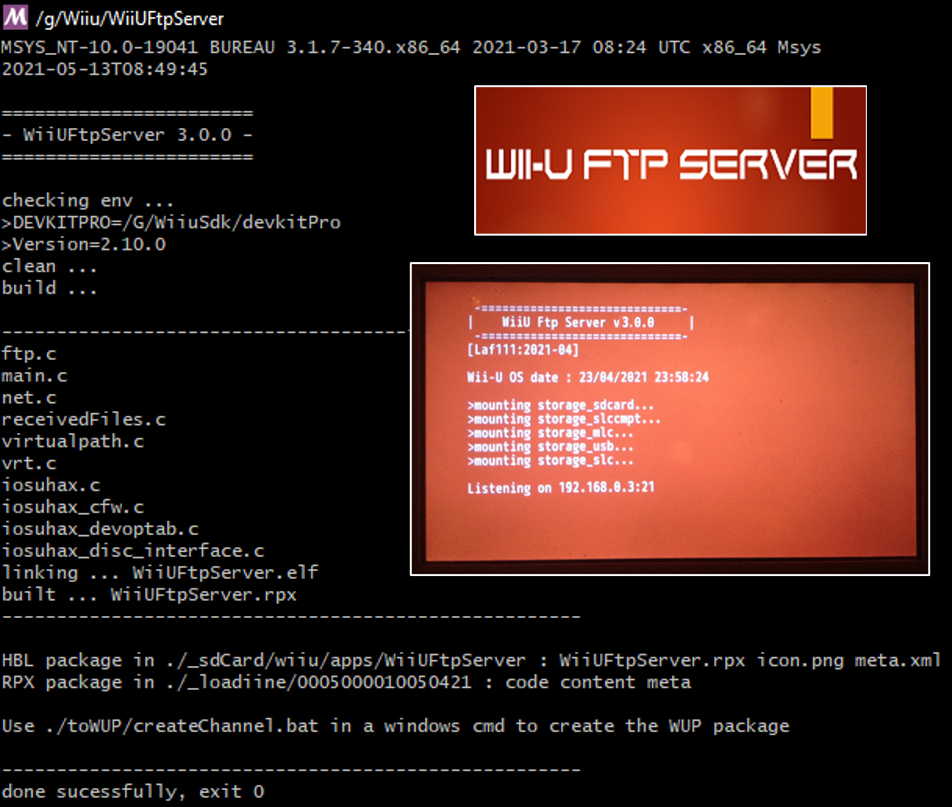
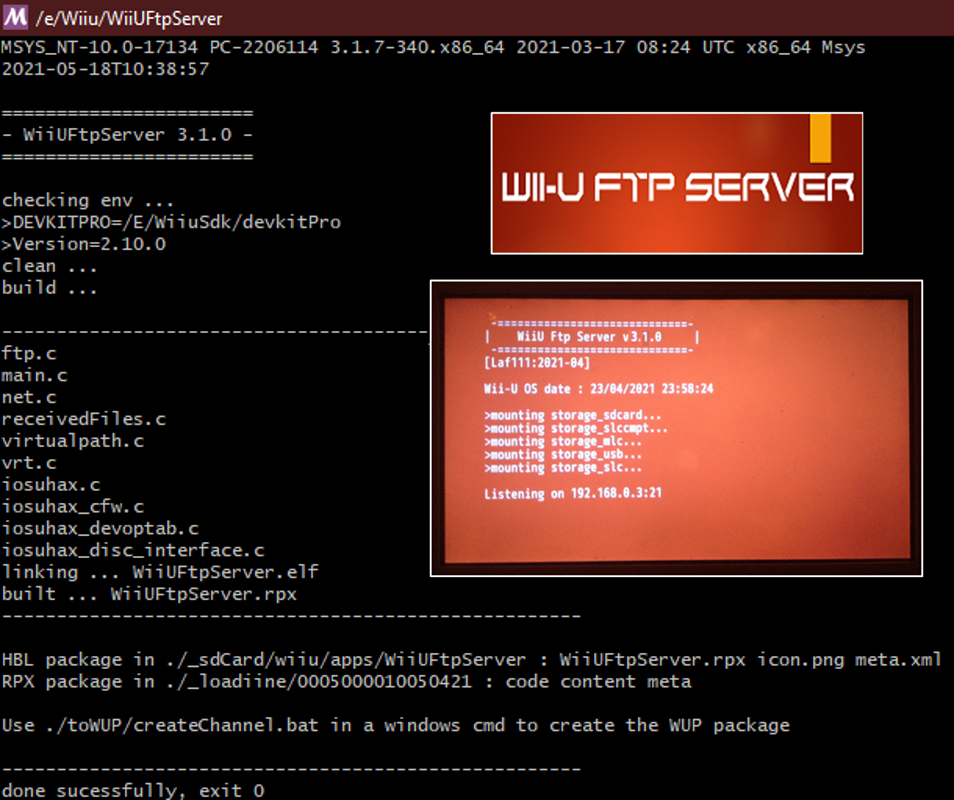
V3-1
2021/05/18 V3-1 : 
    > always retry on transfert error
    > +15% on network speed by setting a max priority to the thread and 
      MAX_NET_BUFFER_SIZE to 512k

Changed region(s): [[0.0, 0.0, 1.0, 0.7812], [0.0, 0.8125, 1.0, 1.0], [0.0, 0.125, 0.3655, 0.375]]

diff --git a/src/net.c b/src/net.c
@@ -12,14 +12,11 @@
 
 #include <errno.h>
 #include <sys/fcntl.h>
+#include <coreinit/memdefaultheap.h>
 
 #include <nn/ac.h>
 #include "vrt.h"
 #include "net.h"
-
-#ifndef MIN
-    #define MIN(x, y) ((x) < (y) ? (x) : (y))
-#endif
 
 static uint32_t NET_BUFFER_SIZE = MAX_NET_BUFFER_SIZE;
 
@@ -33,7 +30,12 @@ void initialise_network()
     ACGetStartupId(&nn_startupid);
     ACConnectWithConfigId(nn_startupid);
     ACGetAssignedAddress(&hostIpAddress);
-
+    
+ 	OSThread *netThread = OSGetCurrentThread();
+	OSSetThreadName(netThread, "WiiUFtpServer network thread");	
+	if(!OSSetThreadPriority(netThread, 0))
+		WHBLogPrintf("WARNING: Error changing network thread priority!");
+    
 	socket_lib_init();
 }
 
@@ -61,7 +63,7 @@ int32_t network_socket(uint32_t domain,uint32_t type,uint32_t protocol)
         return (err < 0) ? err : sock;
     }
     if (type == SOCK_STREAM)
-    {
+    {        
         int tcpsack = 1, winscale = 1, rcvbuf = 128 * 1024;
         setsockopt(sock, SOL_SOCKET, SO_TCPSACK, &tcpsack, sizeof(tcpsack));
         setsockopt(sock, SOL_SOCKET, SO_WINSCALE, &winscale, sizeof(winscale));
@@ -190,12 +192,11 @@ int32_t create_server(uint16_t port) {
 	int32_t ret;
 	if ((ret = network_bind(server, (struct sockaddr *)&bindAddress, sizeof(bindAddress))) < 0) {
 		network_close(server);
-		//gxprintf("Error binding socket: [%i] %s\n", -ret, strerror(-ret));
 		return ret;
 	}
-	if ((ret = network_listen(server, 3)) < 0) {
+
+	if ((ret = network_listen(server, NB_SIMULTANEOUS_CONNEXIONS)) < 0) {
 		network_close(server);
-		//gxprintf("Error listening on socket: [%i] %s\n", -ret, strerror(-ret));
 		return ret;
 	}
 
@@ -216,14 +217,23 @@ static int32_t transfer_exact(int32_t s, char *buf, int32_t length, transferrer_
 		if (bytes_transferred > 0) {
 			remaining -= bytes_transferred;
 			buf += bytes_transferred;
+            
+            // restore the whole buffer after a successfully network read
+            if (NET_BUFFER_SIZE < MAX_NET_BUFFER_SIZE) NET_BUFFER_SIZE = MAX_NET_BUFFER_SIZE;        
+            
 		} else if (bytes_transferred < 0) {
 			if (NET_BUFFER_SIZE > MIN_NET_BUFFER_SIZE) {
 				NET_BUFFER_SIZE = NET_BUFFER_SIZE - MIN_NET_BUFFER_SIZE;
 				OSSleepTicks(OSMillisecondsToTicks(100));
 				goto try_again_with_smaller_buffer;
 			}
-			result = bytes_transferred;
-			break;
+            WHBLogPrintf("WARNING : transfer_exact failed, buf=%d", NET_BUFFER_SIZE);
+            WHBLogPrintf("WARNING : NB_SIMULTANEOUS_CONNEXIONS reached ?");
+            OSSleepTicks(OSMillisecondsToTicks(1000));
+// always retry !
+            goto try_again_with_smaller_buffer;
+//			result = bytes_transferred;
+//			break;
 		} else {
 			result = -ENODATA;
 			break;
@@ -285,11 +295,16 @@ int32_t recv_to_file(int32_t s, FILE *f) {
 		if (bytes_read < 0) {
 			if (NET_BUFFER_SIZE > MIN_NET_BUFFER_SIZE) {
 				NET_BUFFER_SIZE = NET_BUFFER_SIZE - MIN_NET_BUFFER_SIZE;
-				OSSleepTicks(OSMillisecondsToTicks(100));
+				OSSleepTicks(OSMillisecondsToTicks(1000));
 				goto try_again_with_smaller_buffer;
 			}
-			free(buf);
-			return bytes_read;
+            WHBLogPrintf("WARNING : recv failed, buf=%d", NET_BUFFER_SIZE);
+            WHBLogPrintf("WARNING : NB_SIMULTANEOUS_CONNEXIONS reached ?");
+            OSSleepTicks(OSMillisecondsToTicks(1000));
+            
+            goto try_again_with_smaller_buffer;
+//			free(buf);
+//			return bytes_read;
 		} else if (bytes_read == 0) {
             // get the fd 
             int fd=fileno(f);
@@ -304,6 +319,8 @@ int32_t recv_to_file(int32_t s, FILE *f) {
 			free(buf);
 			return -1;
 		}
+        // restore the whole buffer after a successfully network read
+        if (NET_BUFFER_SIZE < MAX_NET_BUFFER_SIZE) NET_BUFFER_SIZE = MAX_NET_BUFFER_SIZE;        
 	}
 	return -1;
 }

diff --git a/src/main.c b/src/main.c
@@ -188,18 +188,12 @@ int main()
         goto exit;
     }
     
- 	OSThread *mainThread = OSGetCurrentThread();
-	OSSetThreadName(mainThread, "WiiUFtpServer");
-
-	if(!OSSetThreadPriority(mainThread, 1))
-		WHBLogPrintf("WARNING: Error changing main thread priority!");
-    
     /*--------------------------------------------------------------------------*/
     /* Starting Network                                                         */
     /*--------------------------------------------------------------------------*/
 	initialise_network();
     uint32_t ip = network_gethostip();     
-    WHBLogPrintf(" ");               
+    WHBLogPrintf(" ");
     WHBLogPrintf("Listening on %u.%u.%u.%u:%i", (ip >> 24) & 0xFF, (ip >> 16) & 0xFF, (ip >> 8) & 0xFF, ip & 0xFF, FTP_PORT);
     WHBLogConsoleDraw();
 

diff --git a/src/net.h b/src/net.h
@@ -22,9 +22,17 @@ extern "C"{
 
 #include "receivedFiles.h"
 
-#define MAX_NET_BUFFER_SIZE (256*1024)
+
+#ifndef MIN
+    #define MIN(x, y) ((x) < (y) ? (x) : (y))
+#endif
+
+#define MAX_NET_BUFFER_SIZE (512*1024)
 #define MIN_NET_BUFFER_SIZE 4*1024
-#define FREAD_BUFFER_SIZE (256*1024)
+#define FREAD_BUFFER_SIZE MAX_NET_BUFFER_SIZE
+
+// Maximum of simultaneous connexions (clients included)
+#define NB_SIMULTANEOUS_CONNEXIONS 3
 
 void initialise_network();
 void finalize_network();
@@ -50,7 +58,6 @@ int32_t send_from_file(int32_t s, FILE *f);
 
 int32_t recv_to_file(int32_t s, FILE *f);
 
-int32_t setRecvFileVolPath(char *vPath);
 
 #ifdef __cplusplus
 }

diff --git a/src/ftp.c b/src/ftp.c
@@ -25,7 +25,7 @@
 #define UNUSED	__attribute__((unused))
 
 #define FTP_BUFFER_SIZE 1024
-#define MAX_CLIENTS 5
+#define MAX_CLIENTS NB_SIMULTANEOUS_CONNEXIONS+2
 
 static const uint16_t SRC_PORT = 20;
 static const int32_t EQUIT = 696969;

diff --git a/src/ftp.h b/src/ftp.h
@@ -12,7 +12,6 @@
 #include <stdint.h>
 #include <stdbool.h>
 
-
 #ifdef __cplusplus
 extern "C"{
 #endif
